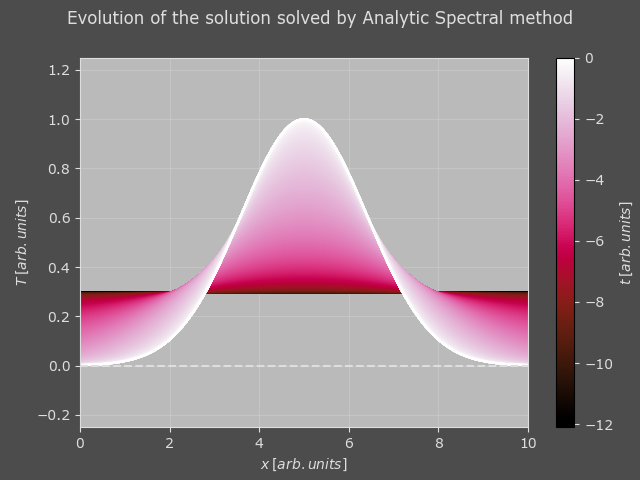
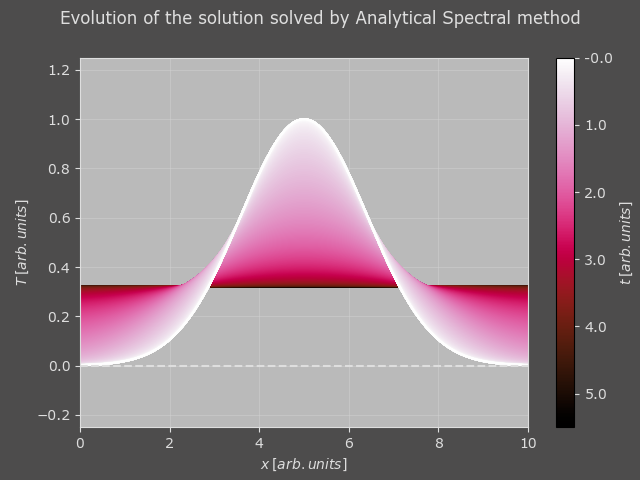
feat(plots): :art: image upload

diff --git a/spectral.py b/spectral.py
@@ -312,7 +312,8 @@ class SpectralSolver:
         else:
             raise ValueError("Method must be either 'analytical' or 'numerical'!")
         norm = mpl.colors.Normalize(vmin=np.min(data), vmax=np.max(data))
-        plt.imshow(data, cmap=cmr.jungle, aspect="auto", norm=norm,# vmin=np.min(data), vmax=np.max(data),
+        # norm = mpl.colors.Normalize(vmin=0, vmax=1)   
+        plt.imshow(data, cmap=cmr.flamingo, aspect="auto", norm=norm,# vmin=np.min(data), vmax=np.max(data),
                    extent=[self.x_range[0], self.x_range[1], self.t_points[0], self.t_points[-1]])
 
         x_ticks = np.linspace(self.x_range[0],self.x_range[1], 10)
@@ -324,7 +325,7 @@ class SpectralSolver:
         plt.ylabel(r"$t\>[arb. units]$")
         plt.suptitle("Heatmap of the solution solved by Analytical Spectral method", color="#dedede")
         
-        scalar_Mappable = plt.cm.ScalarMappable(norm=norm, cmap=cmr.jungle)
+        scalar_Mappable = plt.cm.ScalarMappable(norm=norm, cmap=cmr.flamingo)
         cb = plt.colorbar(scalar_Mappable, ax=ax, label=r"$T\>[arb. units]$",
                       orientation="vertical")
         cb.set_label(r"$T\>[arb. units]$", color="#dedede")
@@ -489,11 +490,11 @@ class SpectralSolver:
         x = self.x
         norm = plt.Normalize(vmin=-np.min(self.t_points), vmax=-np.max(self.t_points))
         # norm = mpl.colors.LogNorm(vmin=0.01, vmax=12)
-        cm = cmr.jungle(np.linspace(0, 1, len(self.t_points)))
+        cm = cmr.flamingo(np.linspace(0, 1, len(self.t_points)))
         for i, sol in enumerate(data):
             ax.plot(x, sol, c=cm[i], alpha=0.8)
 
-        scalar_Mappable = plt.cm.ScalarMappable(norm=norm, cmap=cmr.jungle)
+        scalar_Mappable = plt.cm.ScalarMappable(norm=norm, cmap=cmr.flamingo)
 
         ax.set_xlabel(r"$x\>[arb. units]$")
         ax.set_ylabel(r"$T\>[arb. units]$")
@@ -501,7 +502,7 @@ class SpectralSolver:
         ax.autoscale()
         # Hardcoded limits for now. Just clear a little of the buffer due to edge divergence.
         ax.set_xlim(0, 10)
-        ax.set_ylim(-1.25, 1.25)
+        ax.set_ylim(-0.25, 1.25)
         # ax.set_ylim(np.min(self.solution), np.max(self.solution))
 
         plt.suptitle("Evolution of the solution solved by Analytical Spectral method", color="#dedede")

diff --git a/main-09.py b/main-09.py
@@ -18,14 +18,14 @@ def gaussian_odd_expansion(x, a=5, sigma=1):
 def fm_modulated_sine_superposition_Initial(x):
          return np.sin(2 * np.pi * x * np.sin(2 * np.pi * x * 0.1)*gaussian_Initial(x) + np.sin(2 * np.pi * x * 0.03))
 # Set x range and mesh size
-x_range = (-10.5, 10.5)
-N = 100#10000
+x_range = (-0.5, 10.5)
+N = 10000
 # Provide time points for the solver
 t_points = np.linspace(0, 5, N)
 # Set diffusion constant
 D = 1e-3
 
-solver = SpectralSolver(fm_modulated_sine_superposition_Initial, x_range, N, t_points, D)
+solver = SpectralSolver(gaussian_Initial, x_range, N, t_points, D)
 solver.solve_Analytically()
 solver.plot_Lines(method="analytical")
 solver.plot_Heatmap(method="analytical")
